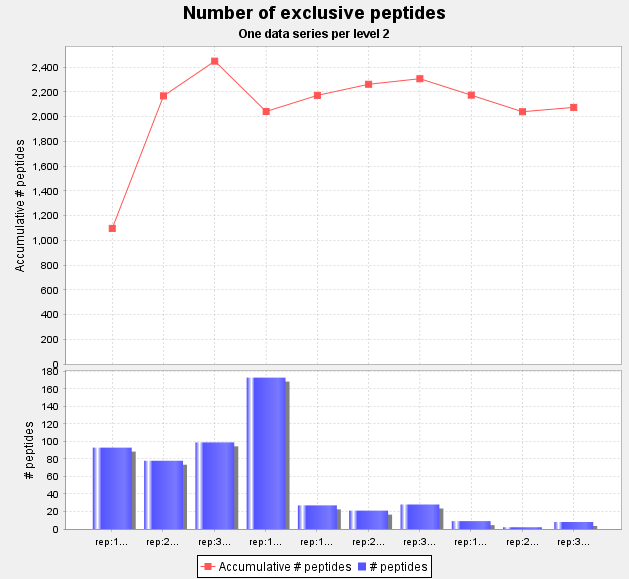
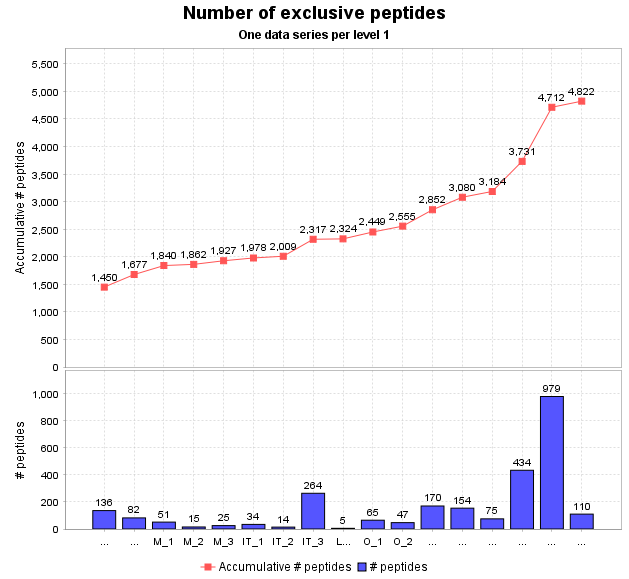
exclusive proteins and peptide bug fixed accumulative trend fixed

diff --git a/PACom/src/main/java/org/proteored/pacom/analysis/gui/tasks/DatasetFactory.java b/PACom/src/main/java/org/proteored/pacom/analysis/gui/tasks/DatasetFactory.java
@@ -3473,7 +3473,7 @@ public class DatasetFactory {
 		final DefaultCategoryDataset accumulativeDataSet = new DefaultCategoryDataset();
 
 		try {
-			final Map<String, Set<String>> MapKeys = getHashMapKeysForPeptides(idSets, distModPeptides);
+			final Map<String, Set<String>> peptidesPerDataset = getHashMapKeysForPeptides(idSets, distModPeptides);
 
 			VennData globalVenn = null;
 			Collection<Object> union = null;
@@ -3481,12 +3481,12 @@ public class DatasetFactory {
 			for (int i = 0; i < idSets.size(); i++) {
 				final IdentificationSet idSet = idSets.get(i);
 				final String idSetName = idSet.getFullName();
-				final Set<String> keys = MapKeys.get(idSetName);
+				final Set<String> keys = peptidesPerDataset.get(idSetName);
 
 				if (accumulativeTrend) {
 					globalVenn = new VennDataForPeptides(keys, union, null);
 					union = globalVenn.getUnion12();
-					final int num = union.size();
+					final int num = globalVenn.getUnion12Size();
 					accumulativeDataSet.addValue(num, "Accumulative # peptides", idSetName);
 				}
 
@@ -3503,7 +3503,7 @@ public class DatasetFactory {
 					moreThanOne = true;
 					final String idSetName2 = idSet2.getFullName();
 					log.info("Comparing " + idSet.getFullName() + " with " + idSetName2);
-					final Set<String> keys2 = MapKeys.get(idSet2.getFullName());
+					final Set<String> keys2 = peptidesPerDataset.get(idSet2.getFullName());
 					VennData venn = null;
 					if (unique == null) {
 						venn = new VennDataForPeptides(keys, keys2, null);
@@ -3563,7 +3563,7 @@ public class DatasetFactory {
 				if (accumulativeTrend) {
 					globalVenn = new VennDataForProteins(keys, union, null, proteinGroupComparisonType);
 					union = globalVenn.getUnion12();
-					final int num = union.size();
+					final int num = globalVenn.getUnion12Size();
 
 					accumulativeDataSet.addValue(num, "Accumulative # proteins", idSetName);
 				}
@@ -3608,6 +3608,14 @@ public class DatasetFactory {
 		return datasets;
 	}
 
+	/**
+	 * returns a map in which the key is the full name of the idSet and the
+	 * value a set of peptide sequences
+	 * 
+	 * @param idSets
+	 * @param distModPeptides
+	 * @return
+	 */
 	private static Map<String, Set<String>> getHashMapKeysForPeptides(List<IdentificationSet> idSets,
 			Boolean distModPeptides) {
 		final Map<String, Set<String>> ret = new THashMap<String, Set<String>>();

diff --git a/PACom/src/main/java/org/proteored/pacom/analysis/charts/CombinedChart.java b/PACom/src/main/java/org/proteored/pacom/analysis/charts/CombinedChart.java
@@ -66,6 +66,7 @@ public class CombinedChart {
 
 			final NumberAxis rangeAxis1 = new NumberAxis(lineValueAxisLabel);
 			rangeAxis1.setStandardTickUnits(NumberAxis.createIntegerTickUnits());
+			rangeAxis1.setUpperMargin(0.2);
 			final LineAndShapeRenderer renderer1 = new LineAndShapeRenderer();
 			renderer1.setDefaultShapesVisible(true);
 			renderer1.setDefaultSeriesVisible(true);
@@ -81,6 +82,7 @@ public class CombinedChart {
 
 			final NumberAxis rangeAxis2 = new NumberAxis(barValueAxisLabel);
 			rangeAxis2.setStandardTickUnits(NumberAxis.createIntegerTickUnits());
+			rangeAxis2.setUpperMargin(0.2);
 			final BarRenderer renderer2 = new BarRenderer();
 			renderer2.setDefaultToolTipGenerator(new StandardCategoryToolTipGenerator());
 			renderer2.setItemMargin(0.01);
@@ -99,13 +101,19 @@ public class CombinedChart {
 			renderer2.setDefaultItemLabelsVisible(true);
 			final CategoryPlot subplot2 = new CategoryPlot(dataset2, null, rangeAxis2, renderer2);
 			subplot2.setDomainGridlinesVisible(true);
+			subplot2.setBackgroundPaint(Color.white);
+			subplot2.setRangeGridlinePaint(Color.lightGray);
 
 			final CategoryAxis domainAxis = new CategoryAxis(categoryAxisLabel);
 			final CombinedDomainCategoryPlot combinedPlot = new CombinedDomainCategoryPlot(domainAxis);
 			combinedPlot.add(subplot1, 2);
 			combinedPlot.add(subplot2, 1);
+			combinedPlot.setGap(2);
+			combinedPlot.setBackgroundPaint(Color.white);
+			combinedPlot.setRangeGridlinePaint(Color.lightGray);
 			final JFreeChart chart = new JFreeChart(title, combinedPlot);
 			chart.addSubtitle(subtitle);
+			chart.setBackgroundPaint(Color.white);
 			return chart;
 		} else {
 			final NumberAxis rangeAxis1 = new NumberAxis(lineValueAxisLabel);
